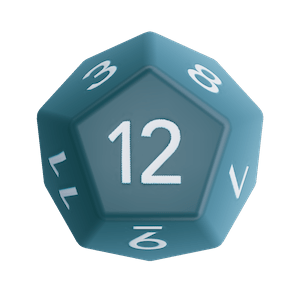
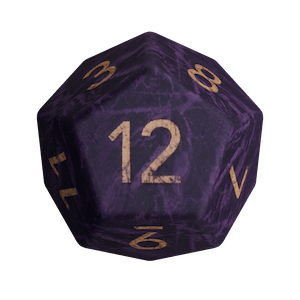
Update 0.7

diff --git a/react-src/src/components/DicesTable/index.tsx b/react-src/src/components/DicesTable/index.tsx
@@ -2,6 +2,9 @@ import { useDice } from '@/hooks/useDice'
 import { DiceButton } from '../DiceButton'
 import { useEffect, useState } from 'react'
 import { storage } from '@neutralinojs/lib'
+import { Checkbox } from '../ui/checkbox'
+import { Input } from '../ui/input'
+import { TooltipComponent } from '../TooltipComponent'
 
 const initialDices = {
   4: 0,
@@ -14,18 +17,31 @@ const initialDices = {
 }
 
 export const DicesTable: React.FC = () => {
-  const { Dice, Display } = useDice('dice')
+  const { Dice, Display, DP } = useDice('dice')
 
   const [allDices, setAllDices] = useState(initialDices)
-  const [color, setColor] = useState<string>('#000000')
+  const [color, setColor] = useState<string>('#410056')
+  const [shouldSum, setShouldSum] = useState<boolean>(false)
+  const [disadvantage, setDisadvantage] = useState<boolean>(false)
+  const [bonus, setBonus] = useState<string>('')
 
   const diceText = Array.from(Object.entries(allDices))
     .filter(([, amount]) => amount > 0)
-    .map(([sides, amount]) => `${amount}d${sides}`)
+    .map(
+      ([sides, amount]) =>
+        `${amount}d${sides}${!shouldSum ? (disadvantage ? 'kl1' : 'kh1') : ''}`
+    )
 
   if (Dice) {
     Dice.onRollComplete = (results) => {
-      Display.showResults(results)
+      const rerolls = DP.handleRerolls(results)
+      if (rerolls.length) {
+        rerolls.forEach((roll) => Dice.add(roll, roll.groupId))
+        return rerolls
+      }
+      const finalResults = DP.parseFinalResults(results)
+
+      Display.showResults(finalResults)
     }
   }
 
@@ -37,7 +53,7 @@ export const DicesTable: React.FC = () => {
         setColor(storageDiceColor)
       }
     } catch (error) {
-      console.error(error)
+      console.error('este errror aqui',error)
     }
   }
 
@@ -86,7 +102,9 @@ export const DicesTable: React.FC = () => {
         <button
           className='p-4 m-w-full bg-slate-700 rounded flex items-center justify-center hover:bg-green-500 hover:bg-opacity-40 transition-colors'
           onClick={() => {
-            Dice.roll(diceText, { themeColor: color })
+            Dice.show().roll(DP.parseNotation(`${diceText.join()}${bonus}`), {
+              themeColor: color,
+            })
             Display.clear()
           }}
         >
@@ -94,10 +112,67 @@ export const DicesTable: React.FC = () => {
         </button>
         <button
           className='p-4 m-w-full bg-slate-700 rounded flex items-center justify-center hover:bg-red-500 hover:bg-opacity-40 transition-colors'
-          onClick={() => setAllDices(initialDices)}
+          onClick={() => {
+            setAllDices(initialDices)
+            Display.clear()
+          }}
         >
           Limpar
         </button>
+      </div>
+      <div className='flex justify-center items-center gap-4 my-4'>
+        <div className='flex flex-col gap-2'>
+          <div className='flex gap-2'>
+            <Checkbox
+              id='shouldSum'
+              checked={shouldSum}
+              onCheckedChange={(value) => setShouldSum(Boolean(value))}
+            />
+            <label
+              htmlFor='shouldSum'
+              className='text-sm font-medium leading-none peer-disabled:cursor-not-allowed peer-disabled:opacity-70'
+            >
+              Somar valores
+            </label>
+          </div>
+          <div className='flex gap-2'>
+            <Checkbox
+              id='shouldSum'
+              checked={disadvantage}
+              onCheckedChange={(value) => setDisadvantage(Boolean(value))}
+            />
+            <label
+              htmlFor='shouldSum'
+              className='text-sm font-medium leading-none peer-disabled:cursor-not-allowed peer-disabled:opacity-70'
+            >
+              Desvantagem
+            </label>
+          </div>
+        </div>
+
+        <div className='flex items-center'>
+          <TooltipComponent
+            content={
+              <p>
+                Ex.: Escreva <i className='italic'>"+15"</i>, sem as aspas, para somar 15 no resultado dos dados. Acesse{' '}
+                <a
+                  href='https://help.roll20.net/hc/en-us/articles/360037773133-Dice-Reference#DiceReference-DiceMatchingmt'
+                  target='_blank'
+                  rel='noopener noreferrer'
+                  className='text-blue-400'
+                >help.roll20.net</a> para saber mais.
+              </p>
+            }
+          >
+            <Input
+              placeholder='Query ex.: +15'
+              prefix={diceText.join()}
+              id='bonus'
+              value={bonus}
+              onChange={(event) => setBonus(event.target.value)}
+            />
+          </TooltipComponent>
+        </div>
       </div>
     </div>
   )

diff --git a/react-src/src/Pages/Initiative/index.tsx b/react-src/src/Pages/Initiative/index.tsx
@@ -12,13 +12,18 @@ import {
 
 export const Initiative: React.FC = () => {
   const [newCharacter, setNewCharacter] = useState('')
-  const [characters, setCharacters] = useState<{ name: string, id: string }[]>([])
+  const [characters, setCharacters] = useState<{ name: string; id: string }[]>(
+    []
+  )
   const [selected, setSelected] = useState<number>(0)
   const [turn, setTurn] = useState<number>(1)
 
   const handleSubmit = (event: FormEvent) => {
     event.preventDefault()
-    setCharacters([...characters, { name: newCharacter, id: new Date().toISOString() }])
+    setCharacters([
+      ...characters,
+      { name: newCharacter, id: new Date().toISOString() },
+    ])
     setNewCharacter('')
   }
 
@@ -107,34 +112,38 @@ export const Initiative: React.FC = () => {
                 ref={provided.innerRef}
                 className='flex flex-col gap-2 max-h-[400px] overflow-auto'
               >
-                {characters.length > 0 ? characters.map(({ name, id }, index) => (
-                  <Draggable
-                    draggableId={name}
-                    key={name}
-                    index={index}
-                  >
-                    {(provided2) => (
-                      <li
-                        ref={provided2.innerRef}
-                        {...provided2.draggableProps}
-                        {...provided2.dragHandleProps}
-                        onClick={() => setSelected(index)}
-                        className={`flex cursor-pointer items-center justify-between gap-4 rounded-md p-4 leading-4 transition-colors hover:bg-gray-900 ${
-                          selected === index ? 'bg-slate-800' : ''
-                        }`}
-                      >
-                        <p className='capitalize'>{name}</p>
-                        <IconButton
-                          ariaLabel='Deletar personagem'
-                          onClick={() => deleteCharacter(id)}
+                {characters.length > 0 ? (
+                  characters.map(({ name, id }, index) => (
+                    <Draggable
+                      draggableId={name}
+                      key={name}
+                      index={index}
+                    >
+                      {(provided2) => (
+                        <li
+                          ref={provided2.innerRef}
+                          {...provided2.draggableProps}
+                          {...provided2.dragHandleProps}
+                          onClick={() => setSelected(index)}
+                          className={`flex leading-relaxed cursor-pointer items-center justify-between gap-4 rounded-md p-4 transition-colors hover:bg-gray-900 ${
+                            selected === index ? 'bg-slate-800' : ''
+                          }`}
                         >
-                          <Trash className='text-red-600' />
-                        </IconButton>
-                      </li>
-                    )}
-                  </Draggable>
-                )) : (
-                  <p className='text-center text-sm text-gray-600'>Nenhuma iniciativa</p>
+                          <p className='capitalize'>{name}</p>
+                          <IconButton
+                            ariaLabel='Deletar personagem'
+                            onClick={() => deleteCharacter(id)}
+                          >
+                            <Trash className='text-red-600' />
+                          </IconButton>
+                        </li>
+                      )}
+                    </Draggable>
+                  ))
+                ) : (
+                  <p className='text-center text-sm text-gray-600'>
+                    Nenhuma iniciativa
+                  </p>
                 )}
                 {provided.placeholder}
               </ul>

diff --git a/react-src/src/components/ui/input.tsx b/react-src/src/components/ui/input.tsx
@@ -1,25 +1,25 @@
-import * as React from "react"
+import * as React from 'react'
 
-import { cn } from "@/lib/utils"
+import { cn } from '@/lib/utils'
 
 export interface InputProps
   extends React.InputHTMLAttributes<HTMLInputElement> {}
 
 const Input = React.forwardRef<HTMLInputElement, InputProps>(
-  ({ className, type, ...props }, ref) => {
+  ({ className, type,prefix, ...props }, ref) => {
     return (
-      <input
-        type={type}
-        className={cn(
-          "flex h-10 w-full rounded-md border border-input bg-background px-3 py-2 text-sm ring-offset-background file:border-0 file:bg-transparent file:text-sm file:font-medium placeholder:text-muted-foreground focus-visible:outline-none focus-visible:ring-2 focus-visible:ring-ring focus-visible:ring-offset-2 disabled:cursor-not-allowed disabled:opacity-50",
-          className
-        )}
-        ref={ref}
-        {...props}
-      />
+      <div className='flex gap-2 h-10 w-full rounded-md border border-input bg-background px-3 py-2 text-sm ring-offset-background file:border-0 file:bg-transparent file:text-sm file:font-medium placeholder:text-muted-foreground focus-visible:outline-none focus-visible:ring-2 focus-visible:ring-ring focus-visible:ring-offset-2 disabled:cursor-not-allowed disabled:opacity-50'>
+        {prefix}
+        <input
+          type={type}
+          className={cn('bg-transparent outline-none h-full w-full', className)}
+          ref={ref}
+          {...props}
+        />
+      </div>
     )
   }
 )
-Input.displayName = "Input"
+Input.displayName = 'Input'
 
 export { Input }

diff --git a/react-src/src/components/ui/checkbox.tsx b/react-src/src/components/ui/checkbox.tsx
@@ -1,0 +1,28 @@
+import * as React from "react"
+import * as CheckboxPrimitive from "@radix-ui/react-checkbox"
+import { Check } from "lucide-react"
+
+import { cn } from "@/lib/utils"
+
+const Checkbox = React.forwardRef<
+  React.ElementRef<typeof CheckboxPrimitive.Root>,
+  React.ComponentPropsWithoutRef<typeof CheckboxPrimitive.Root>
+>(({ className, ...props }, ref) => (
+  <CheckboxPrimitive.Root
+    ref={ref}
+    className={cn(
+      "peer h-4 w-4 shrink-0 rounded-sm border border-primary ring-offset-background focus-visible:outline-none focus-visible:ring-2 focus-visible:ring-ring focus-visible:ring-offset-2 disabled:cursor-not-allowed disabled:opacity-50 data-[state=checked]:bg-primary data-[state=checked]:text-primary-foreground",
+      className
+    )}
+    {...props}
+  >
+    <CheckboxPrimitive.Indicator
+      className={cn("flex items-center justify-center text-current")}
+    >
+      <Check className="h-4 w-4" />
+    </CheckboxPrimitive.Indicator>
+  </CheckboxPrimitive.Root>
+))
+Checkbox.displayName = CheckboxPrimitive.Root.displayName
+
+export { Checkbox }

diff --git a/react-src/src/hooks/useDice.tsx b/react-src/src/hooks/useDice.tsx
@@ -1,21 +1,28 @@
 import DiceBox from '@3d-dice/dice-box'
 import { DisplayResults } from '@3d-dice/dice-ui'
 import { useEffect, useState } from 'react'
+import DiceParser from '@3d-dice/dice-parser-interface'
 
 export const useDice = (targetId: string) => {
   const [Dice, setDice] = useState(null)
+  const [DP, setDP] = useState(null)
   const [Display, setDisplay] = useState(null)
 
   useEffect(() => {
-    if (targetId) setDice(
+    if (targetId) {setDice(
       new DiceBox(`#${targetId}`, {
         assetPath: '/assets/',
         id: 'dice-canvas',
         theme: 'smooth',
         scale: 5.5,
-      })
-    )
-
+        gravity: 10,
+        throwForce: 7,
+        sound: true,
+        theme_surface:  "green-felt",
+      }))
+    }
+    
+    setDP(new DiceParser())
     setDisplay(new DisplayResults('#results'))
   }, [targetId])
 
@@ -23,5 +30,5 @@ export const useDice = (targetId: string) => {
     if (Dice) Dice.init()
   }, [Dice])
 
-  return { Dice, Display }
+  return { Dice, Display, DP }
 }

diff --git a/react-src/index.html b/react-src/index.html
@@ -9,6 +9,6 @@
   <body>
     <div id="root"></div>
     <script type="module" src="/src/main.tsx"></script>
-    <script src="http://localhost:52633/__neutralino_globals.js"></script>
+    <script src="http://localhost:58402/__neutralino_globals.js"></script>
   </body>
 </html>

diff --git a/react-src/src/components/TooltipComponent/types.d.ts b/react-src/src/components/TooltipComponent/types.d.ts
@@ -2,5 +2,5 @@ import { ReactNode } from 'react'
 
 export interface TooltipComponentProps {
   children: ReactNode
-  content: string
+  content: ReactNode
 }
